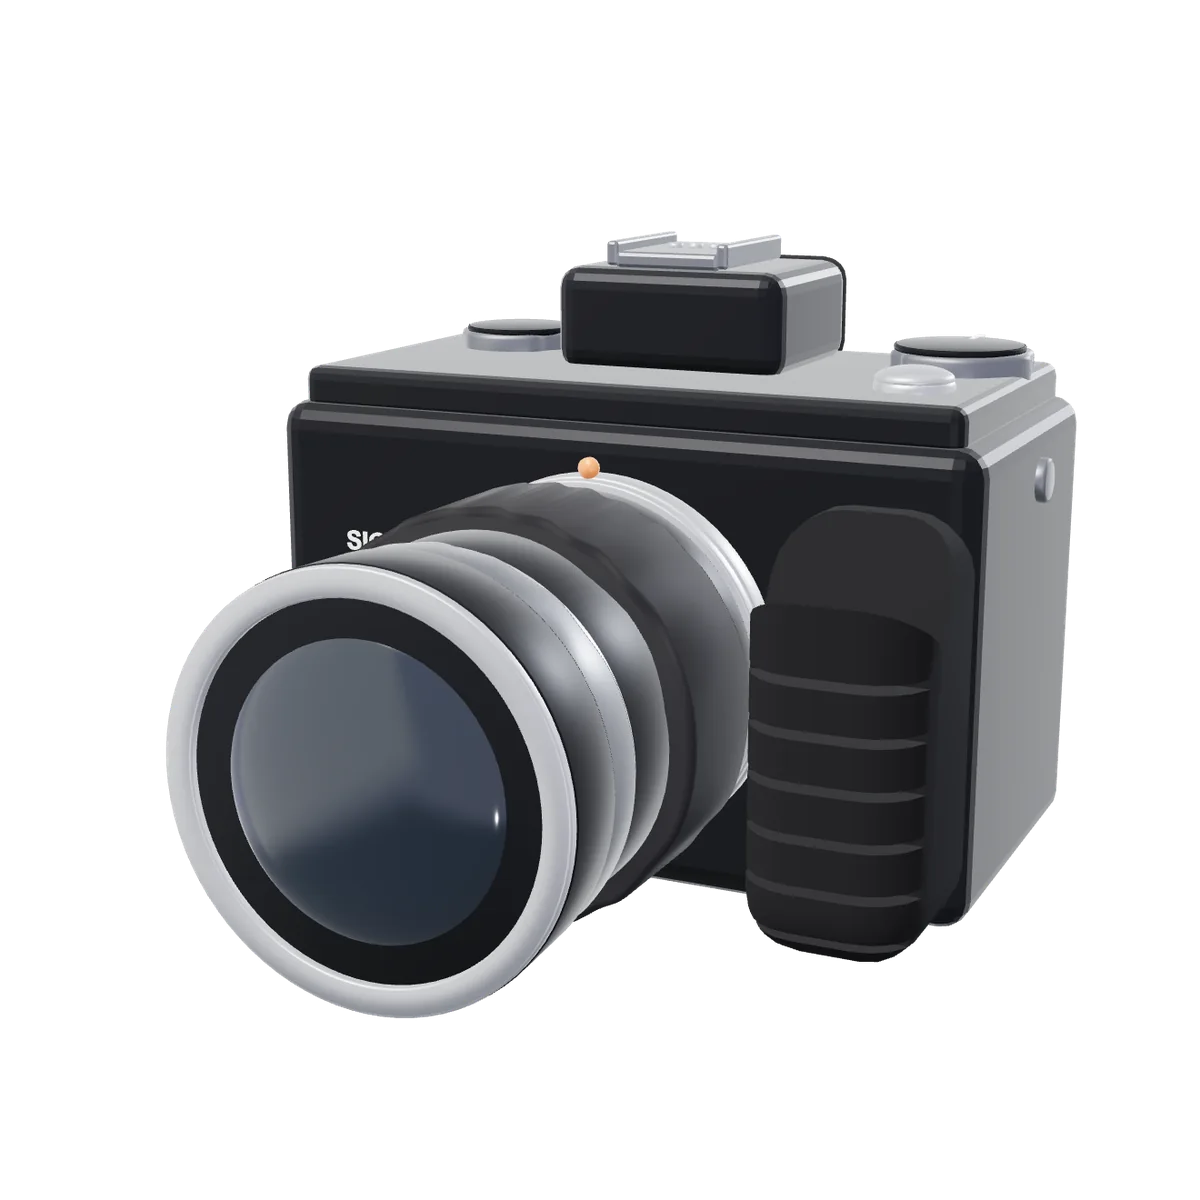
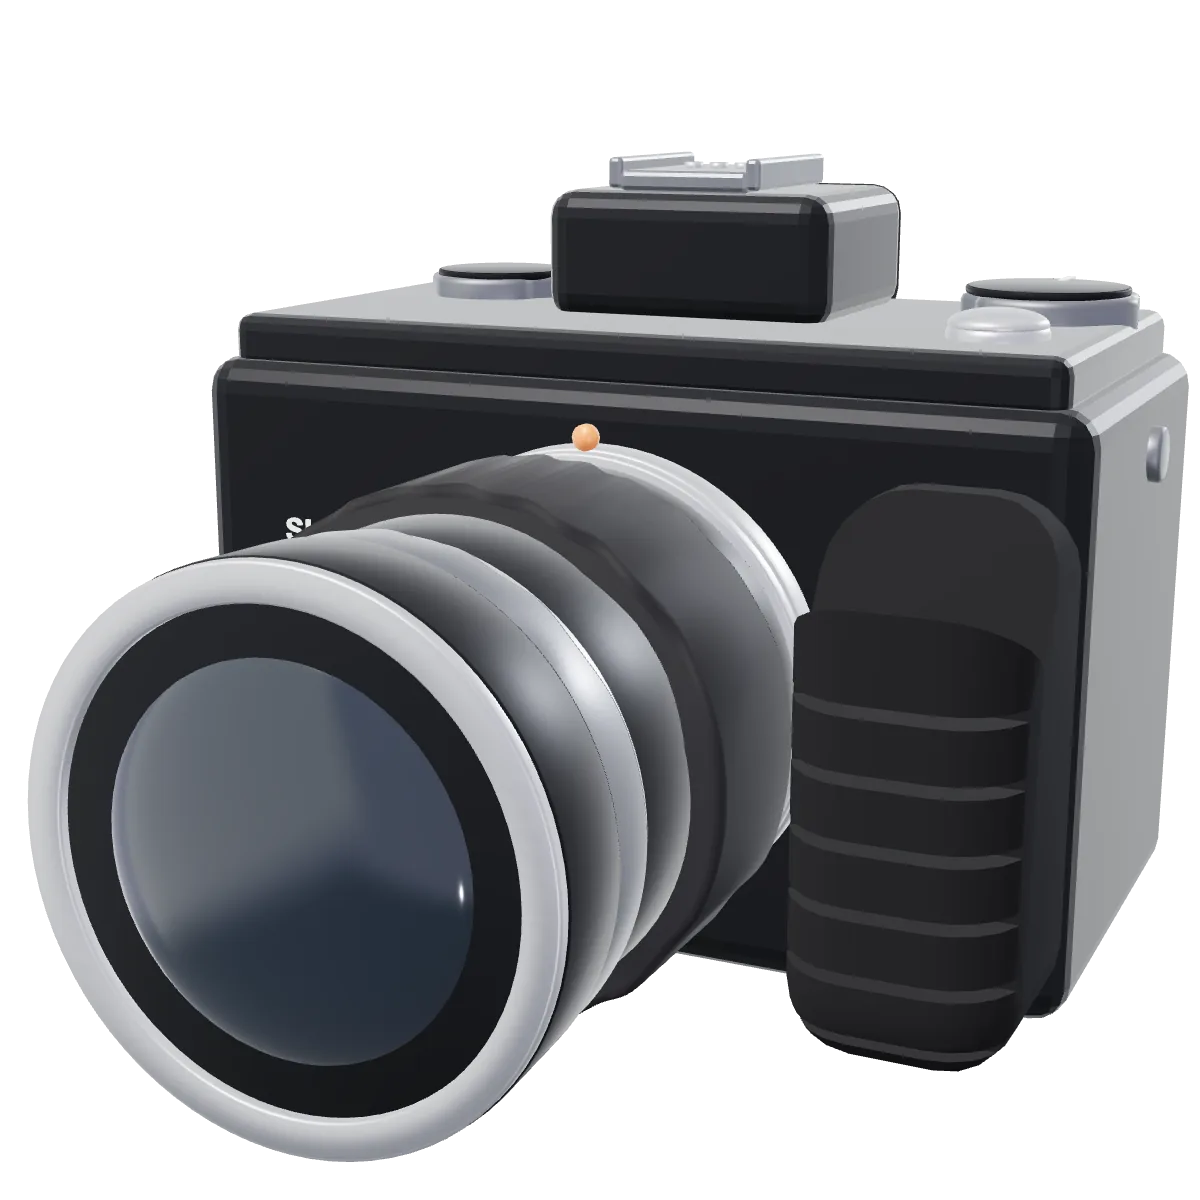
fix(hero): enlarge stage and regenerate responsive posters

diff --git a/phase-a.css b/phase-a.css
@@ -1937,7 +1937,7 @@ body[data-tone="dark"] .menu-toggle {
   flex: 1;
   min-height: 0;
   display: grid;
-  grid-template-columns: minmax(0, 1.06fr) minmax(0, 0.94fr);
+  grid-template-columns: minmax(0, 0.86fr) minmax(0, 1fr);
   align-items: center;
   gap: clamp(32px, 4vw, 72px);
 }
@@ -1957,7 +1957,7 @@ body[data-tone="dark"] .menu-toggle {
 .hero-stage {
   position: relative;
   width: 100%;
-  max-width: 600px;
+  max-width: clamp(420px, 68vh, 760px);
   aspect-ratio: 1 / 1;
   justify-self: end;
   align-self: center;
@@ -2025,18 +2025,7 @@ html.js .intro-title.is-revealed .intro-line:nth-child(2) {
   transition-delay: 80ms;
 }
 
-@media (max-width: 1100px) {
-  .intro-main {
-    grid-template-columns: minmax(0, 1fr) minmax(0, 0.9fr);
-    gap: 32px;
-  }
-
-  .hero-stage {
-    max-width: 460px;
-  }
-}
-
-@media (max-width: 820px) {
+@media (max-width: 1023px) {
   .intro-main {
     display: flex;
     flex-direction: column;
@@ -2056,13 +2045,21 @@ html.js .intro-title.is-revealed .intro-line:nth-child(2) {
   .hero-stage {
     order: 2;
     width: 100%;
-    max-width: 350px;
+    max-width: 560px;
     margin: 0 auto;
   }
 
   .intro-lower {
     order: 3;
     margin-top: 12px;
+  }
+}
+
+@media (max-width: 600px) {
+  .hero-stage {
+    width: 100vw;
+    max-width: none;
+    margin-left: calc(50% - 50vw);
   }
 }
 

diff --git a/index.html b/index.html
@@ -107,10 +107,16 @@
 
         <div class="hero-stage" id="heroStage">
           <picture class="hero-poster" id="heroPoster">
-            <source type="image/webp" srcset="assets/models/camera-hero-600.webp 1x, assets/models/camera-hero-1200.webp 2x">
+            <source media="(min-width: 1024px)" type="image/webp"
+                    srcset="assets/models/camera-hero-760.webp 760w, assets/models/camera-hero-1520.webp 1520w"
+                    sizes="760px">
+            <source type="image/webp"
+                    srcset="assets/models/camera-hero-600.webp 600w, assets/models/camera-hero-1200.webp 1200w"
+                    sizes="(max-width: 600px) 100vw, 560px">
             <img id="heroPosterImg"
                  src="assets/models/camera-hero-600.jpg"
-                 srcset="assets/models/camera-hero-600.jpg 1x, assets/models/camera-hero-1200.jpg 2x"
+                 srcset="assets/models/camera-hero-600.jpg 600w, assets/models/camera-hero-1200.jpg 1200w"
+                 sizes="(max-width: 600px) 100vw, 560px"
                  width="600" height="600" fetchpriority="high" decoding="async"
                  alt="Studio study of a mirrorless camera with a 35 mm prime lens, lit softly against a neutral background.">
           </picture>

diff --git a/hero3d.js b/hero3d.js
@@ -253,7 +253,7 @@
       bindPointer();
       bindVisibility();
 
-      state.stage.loadModel("camera", "assets/models/camera.glb", { targetSize: 2.9 }).then(function () {
+      state.stage.loadModel("camera", "assets/models/camera.glb", { targetSize: 3.65 }).then(function () {
         state.stage.setState("camera", {
           rotation: { x: BASE_X, y: BASE_Y, z: 0 },
           scale: 0.92,

diff --git a/tools/poster-hero.html b/tools/poster-hero.html
@@ -27,7 +27,7 @@
   });
   stage.pause();
 
-  stage.loadModel("camera", "../assets/models/camera.glb", { targetSize: 2.9 }).then(function () {
+  stage.loadModel("camera", "../assets/models/camera.glb", { targetSize: 3.65 }).then(function () {
     stage.setState("camera", {
       rotation: { x: 8 * Math.PI / 180, y: -25 * Math.PI / 180, z: 0 },
       scale: 0.92,
